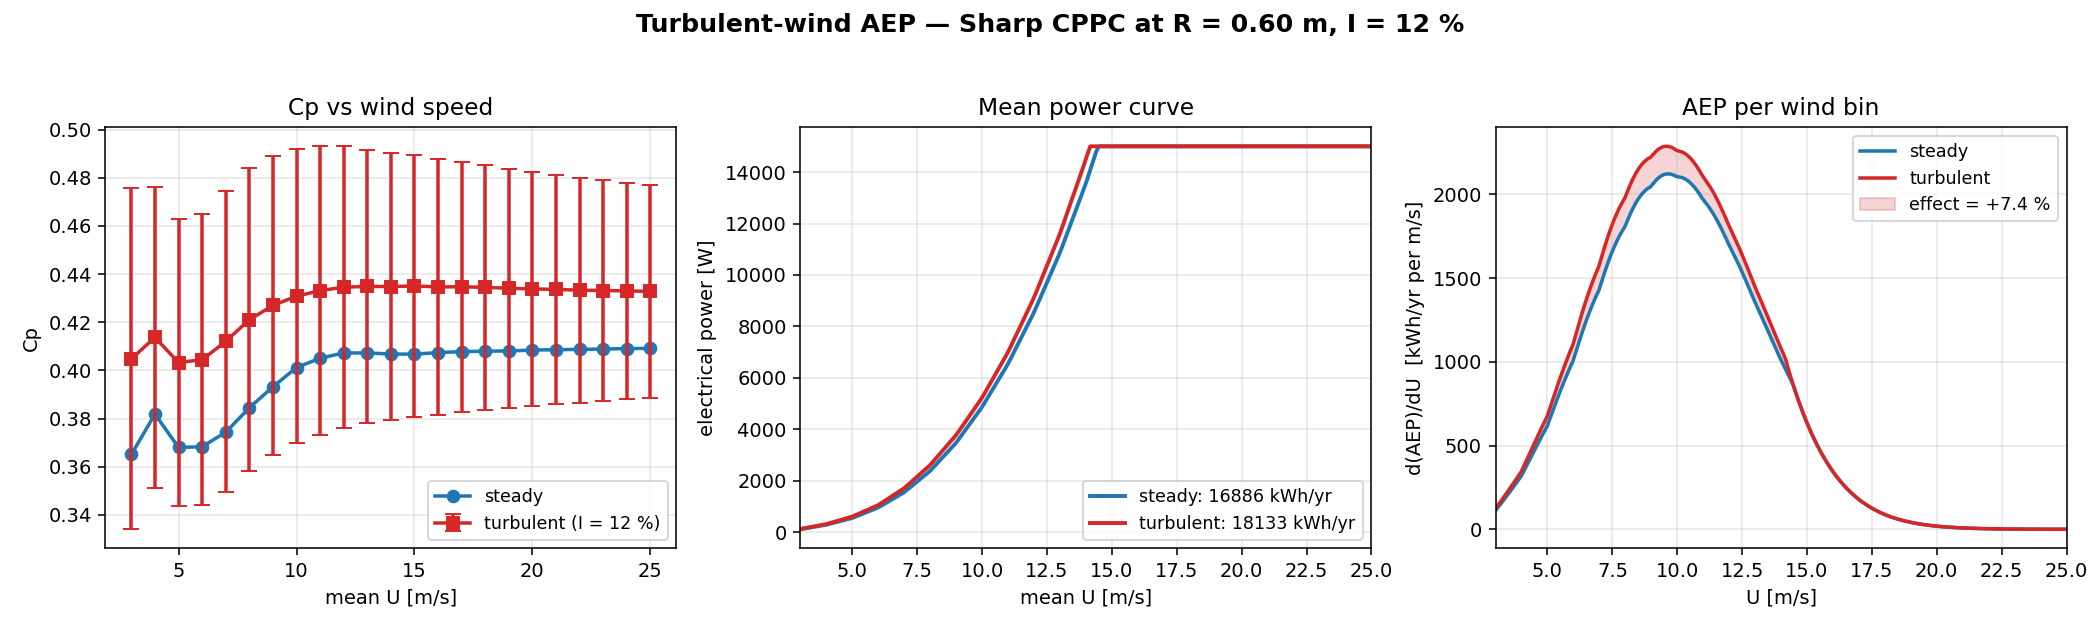
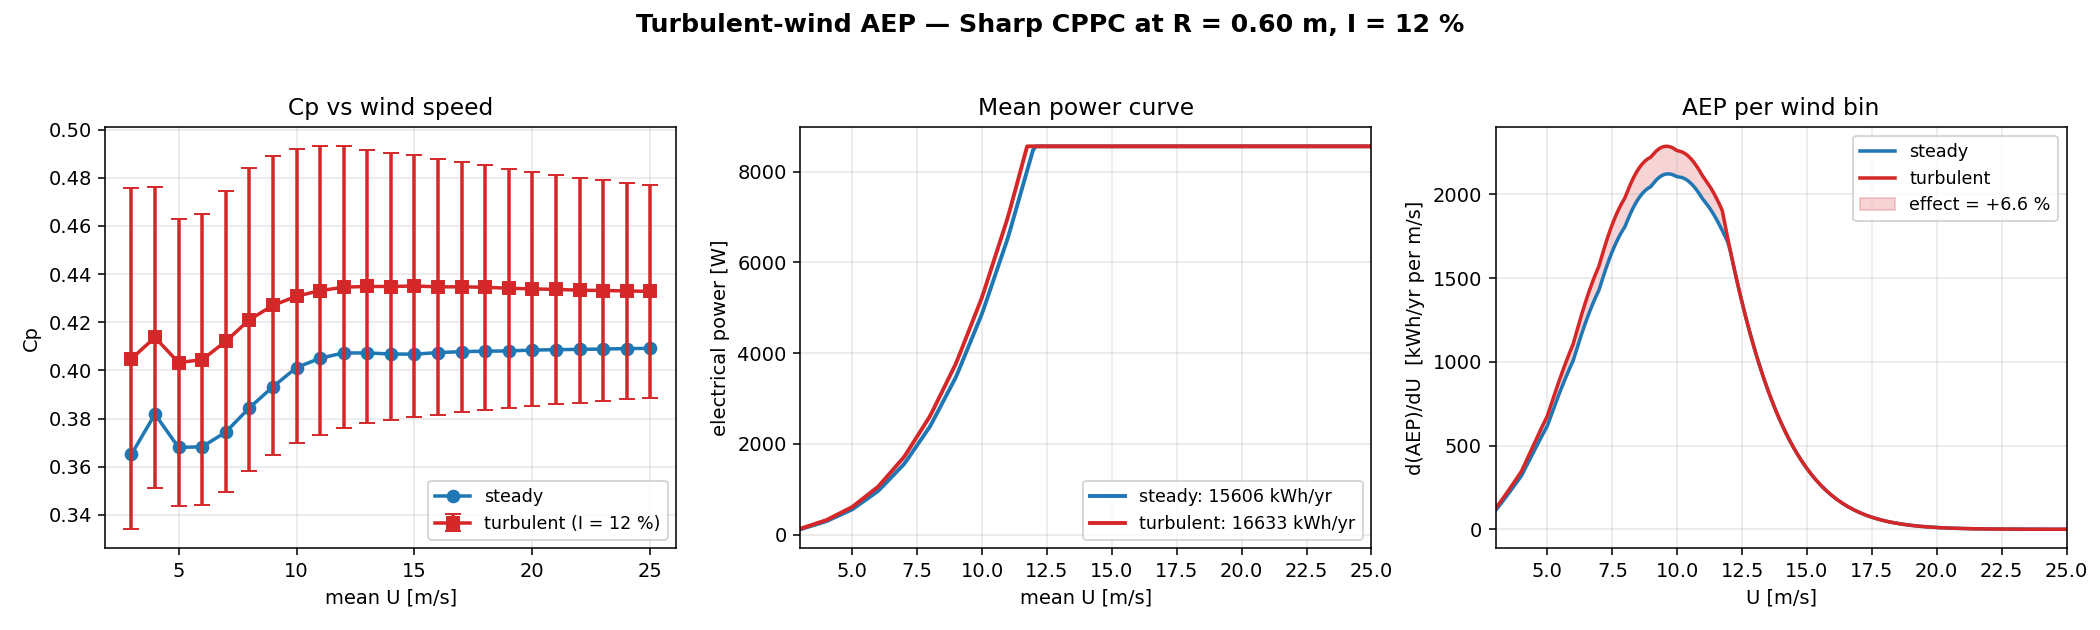
AEP: rate the turbulent case per design
Replace the fixed 15 kW cap with the rotor's Cp at 12 m/s (8.56 kW), matching the other AEP scripts. Steady/turbulent AEP becomes 15.61/16.63 MWh/yr; capacity factors are now meaningful. Update the stale Sharp UQ mean in the README.

diff --git a/scripts/compute_aep_turbulent.py b/scripts/compute_aep_turbulent.py
@@ -24,6 +24,7 @@ _ROOT = os.path.dirname(_HERE)
 sys.path.insert(0, _ROOT)
 
 from vawt_core import create_sim_from_params
+from compute_aep import U_RATED, rated_power_from_cp
 
 
 # ----------------------------------------------------------------------------
@@ -52,7 +53,6 @@ CUT_IN         = 3.0
 CUT_OUT        = 25.0
 RHO            = 1.225
 HOURS_YEAR     = 8760.0
-P_RATED_W      = 15000.0
 ETA_DRIVETRAIN = 0.90
 
 TURB_I  = 0.12
@@ -132,7 +132,7 @@ def main():
     print(f"  Turbulence     : I = {TURB_I*100:.0f} %, L = {TURB_L:.0f} m")
     print(f"  Realisations   : {N_SEEDS} per wind speed")
     print(f"  Wind resource  : Weibull k = {K_WEIBULL}, mean U = {U_MEAN} m/s")
-    print(f"  Rated P        : {P_RATED_W} W, drivetrain eta = {ETA_DRIVETRAIN:.2f}")
+    print(f"  Drivetrain eta : {ETA_DRIVETRAIN:.2f}")
     print()
 
     steady_rows = []      # (U, P, cp, tsr)
@@ -174,16 +174,23 @@ def main():
     U_t = np.array([r[0] for r in turb_rows])
     P_t = np.array([r[1] for r in turb_rows])
 
+    # Per-design rating: mechanical power at U_RATED using this rotor's Cp.
+    i_rated = int(np.argmin(np.abs(U_s - U_RATED)))
+    cp_rated = float(steady_rows[i_rated][2])
+    p_rated = rated_power_from_cp(BASE['R'], BASE['H'], cp_rated)
+    print(f"  Rated P        : {p_rated:.0f} W at U = {U_RATED:.1f} m/s "
+          f"(Cp = {cp_rated:.4f}), eta = {ETA_DRIVETRAIN:.2f}")
+
     U_grid = np.linspace(CUT_IN, CUT_OUT, 200)
-    P_s_g = np.minimum(np.interp(U_grid, U_s, P_s) * ETA_DRIVETRAIN, P_RATED_W)
-    P_t_g = np.minimum(np.interp(U_grid, U_t, P_t) * ETA_DRIVETRAIN, P_RATED_W)
+    P_s_g = np.minimum(np.interp(U_grid, U_s, P_s) * ETA_DRIVETRAIN, p_rated)
+    P_t_g = np.minimum(np.interp(U_grid, U_t, P_t) * ETA_DRIVETRAIN, p_rated)
 
     pdf = weibull_pdf(U_grid, U_MEAN, K_WEIBULL)
     aep_s = float(trapezoid(P_s_g * pdf, U_grid) * HOURS_YEAR / 1000.0)
     aep_t = float(trapezoid(P_t_g * pdf, U_grid) * HOURS_YEAR / 1000.0)
 
-    cf_s = aep_s * 1000.0 / (P_RATED_W * HOURS_YEAR)
-    cf_t = aep_t * 1000.0 / (P_RATED_W * HOURS_YEAR)
+    cf_s = aep_s * 1000.0 / (p_rated * HOURS_YEAR)
+    cf_t = aep_t * 1000.0 / (p_rated * HOURS_YEAR)
     # Signed turbulence effect on AEP (positive = turbulence increases AEP).
     effect = (aep_t - aep_s) / aep_s * 100.0 if aep_s > 0 else 0.0
 
@@ -264,7 +271,9 @@ def main():
             "turbulence": {"I": TURB_I, "L_m": TURB_L, "n_seeds": N_SEEDS},
             "wind": {"mean_U": U_MEAN, "k_weibull": K_WEIBULL,
                      "cut_in": CUT_IN, "cut_out": CUT_OUT,
-                     "p_rated_W": P_RATED_W, "eta_drivetrain": ETA_DRIVETRAIN},
+                     "p_rated_W": float(p_rated),
+                     "rated_wind_speed": U_RATED,
+                     "eta_drivetrain": ETA_DRIVETRAIN},
             "steady":    {"aep_kWh": aep_s, "cf": cf_s},
             "turbulent": {"aep_kWh": aep_t, "cf": cf_t},
             "turbulence_effect_pct": effect,

diff --git a/README.md b/README.md
@@ -142,9 +142,10 @@ solves the counterweight position from the equilibrium (d_cw = −0.31,
 behind the pivot) also runs cleanly: Cp = 0.128, TSR = 1.76, no stops.
 That is not Sharp's CPPC
 regime. The light-counterweight anchor (m_c = 0.002 kg) survives at
-Cp = 0.067 deterministically (UQ mean 0.048), but it sits only about 4 %
-above the collapse threshold; the Sharp-like mass pushes the offset
-designs over it.
+Cp = 0.067 deterministically; its UQ all-sample mean is 0.033 and its
+working-branch mean is 0.095, because most samples collapse. It sits only
+about 4 % above the collapse threshold; the Sharp-like mass pushes the
+offset designs over it.
 
 `scripts/passive_sharp.py` sweeps counterweight mass and offset. The
 offset sweep is meaningful only with `balance = 0` (the default
@@ -524,9 +525,9 @@ length scale L = 30 m (von Kármán spectrum with √0.47 variance scaling). See
 <!-- BEGIN GENERATED: aep_turbulent -->
 | | AEP | CF |
 |---|---|---|
-| Steady wind | 16885.7 kWh/yr | 12.85 % |
-| Turbulent wind (I = 12 %) | 18132.9 kWh/yr | 13.80 % |
-| **Effect** | **+7.4 %** | **+0.95 pp** |
+| Steady wind | 15606.0 kWh/yr | 20.82 % |
+| Turbulent wind (I = 12 %) | 16633.4 kWh/yr | 22.20 % |
+| **Effect** | **+6.6 %** | **+1.37 pp** |
 <!-- END GENERATED: aep_turbulent -->
 
 ### Why turbulence gives a gain, not a loss

diff --git a/CHANGELOG.md b/CHANGELOG.md
@@ -84,8 +84,12 @@ and this project adheres to [Semantic Versioning](https://semver.org/spec/v2.0.0
   ~2 %. Scale-up AEP therefore changes from 17.26 to 15.49 MWh/yr: the
   lower rating clips power above 12 m/s. The fair rigid baseline is
   14.15 MWh/yr with the same rule, so the passive-vs-rigid gain is +10.6 %
-  (was +13.9 %). These are mandated rating/AEP changes, not physics
-  changes; the Cp curves are unchanged except for the phase average below.
+  (was +13.9 %). The same per-design rule replaces the fixed 15 kW rating
+  in `compute_aep_turbulent.py` (8.56 kW) and the 90 kW pair rating in the
+  counter-rotating scenario; turbulent AEP becomes 15.61 MWh/yr steady and
+  16.63 MWh/yr with turbulence. These are mandated rating/AEP changes, not
+  physics changes; the Cp curves are unchanged except for the phase average
+  below.
 - **Fixed-rpm Cp(TSR) is phase-averaged.** A single `psi0 = 0` run gave a
   narrow TSR = 3.25 maximum (Cp 0.4122) that fell to 0.3479 at `psi0 =
   120°/240°`; this is an initial-phase limit-cycle artefact, not a
